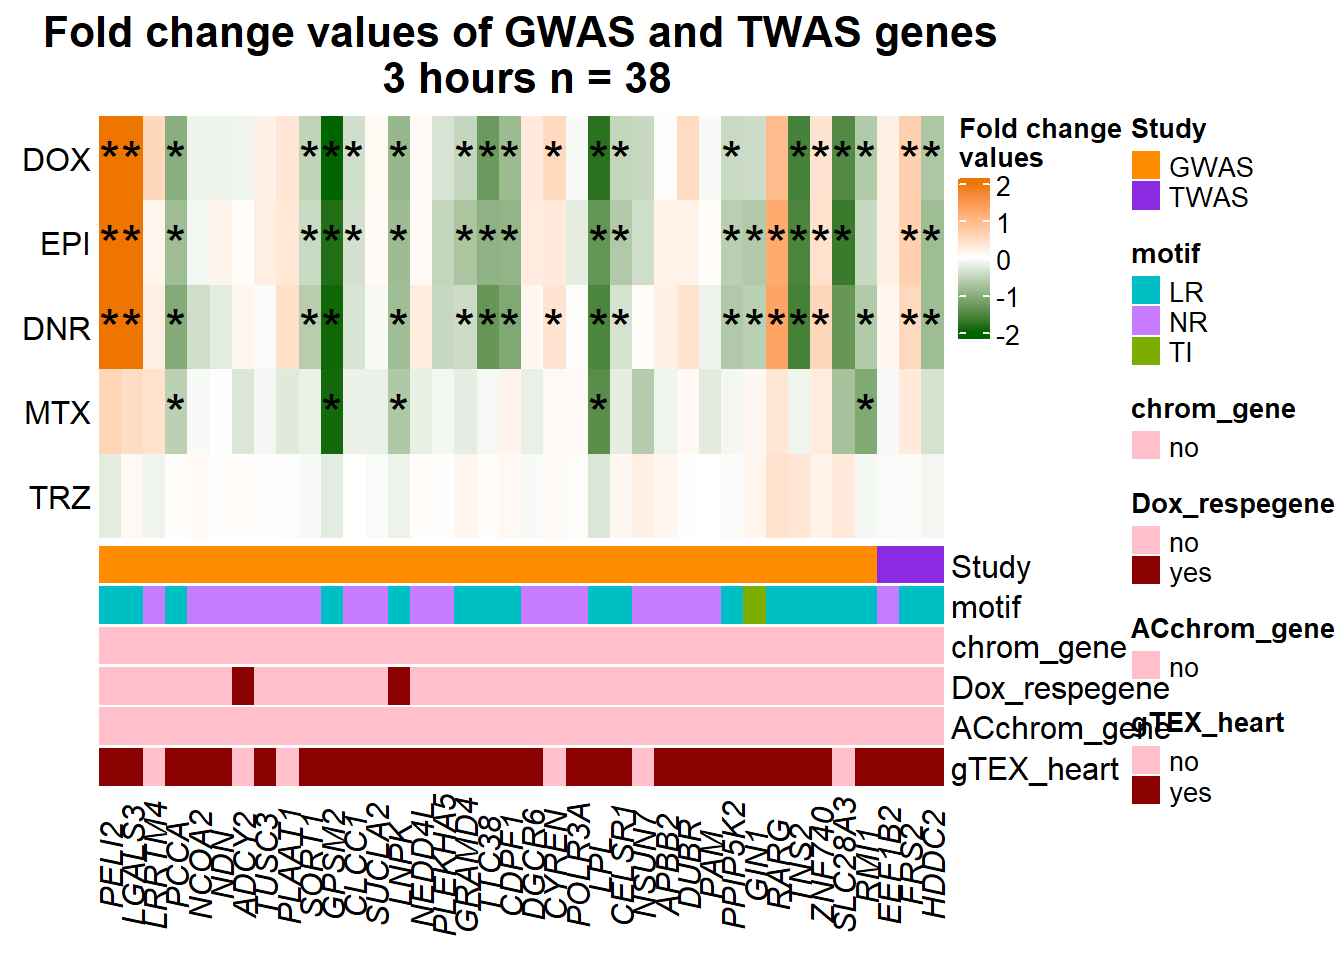
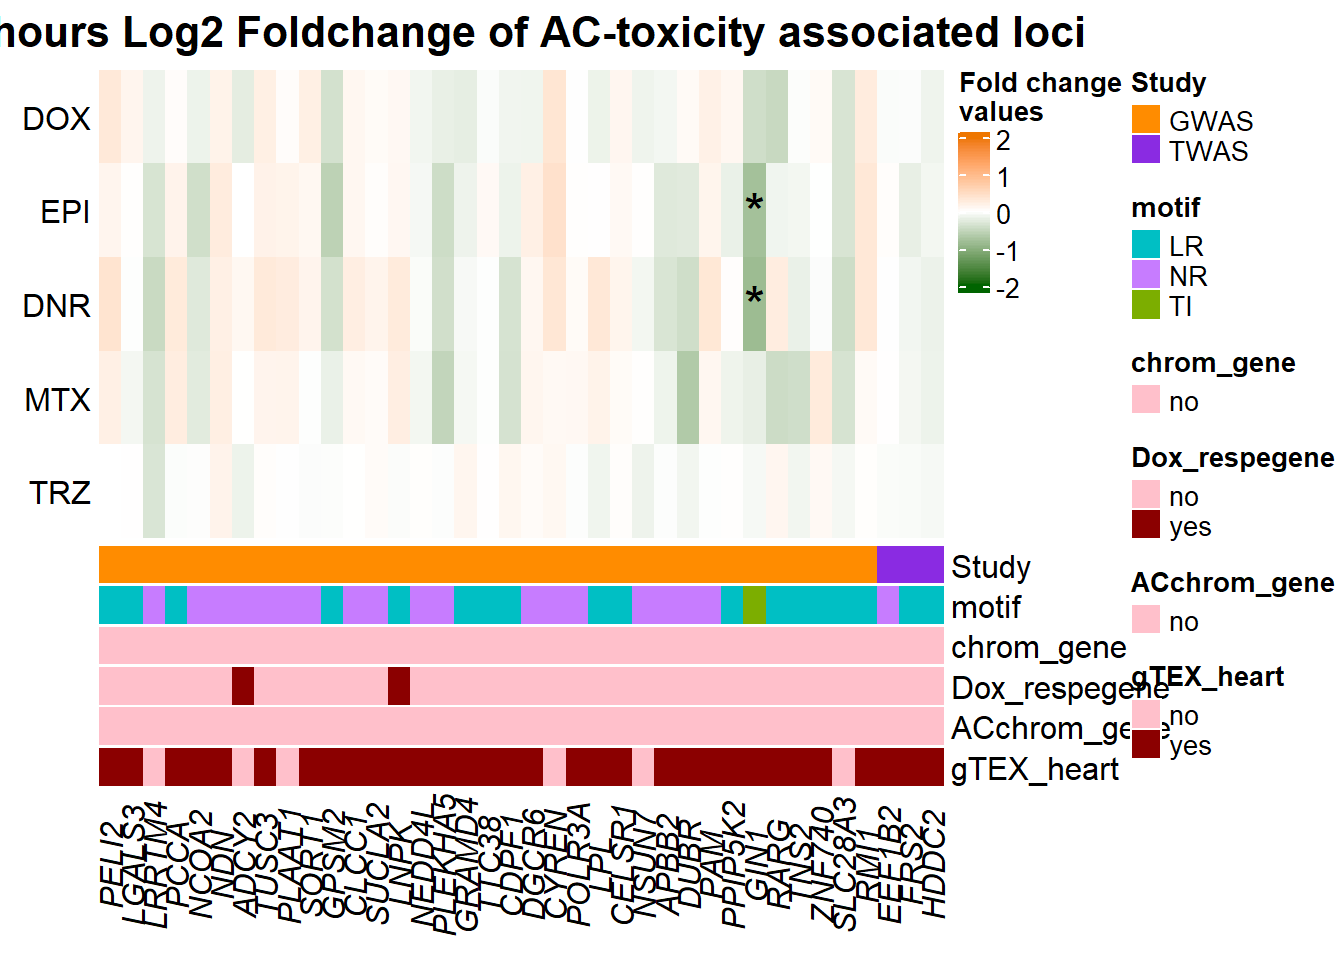
Build site.

Changed region(s): [[0.0, 0.0, 1.0, 0.8438]]

diff --git a/docs/Figure7.html b/docs/Figure7.html
@@ -522,15 +522,15 @@ project makes it easier to run your code on other machines.</p>
 <div class="panel panel-default">
 <div class="panel-heading">
 <p class="panel-title">
-<a data-toggle="collapse" data-parent="#workflowr-checks" href="#strongRepositoryversionstrongahrefhttpsgithubcommwardlabMatthewsTOP2icardiotox2023treed3bb5e9da66699fae2867fe44e4a731e4240b31etargetblankd3bb5e9a">
+<a data-toggle="collapse" data-parent="#workflowr-checks" href="#strongRepositoryversionstrongahrefhttpsgithubcommwardlabMatthewsTOP2icardiotox2023tree5a1f2a65b68054797aacaea50ca1465bad3ce36ftargetblank5a1f2a6a">
 <span class="glyphicon glyphicon-ok text-success"
 aria-hidden="true"></span> <strong>Repository version:</strong>
-<a href="https://github.com/mward-lab/Matthews_TOP2i_cardiotox_2023/tree/d3bb5e9da66699fae2867fe44e4a731e4240b31e" target="_blank">d3bb5e9</a>
+<a href="https://github.com/mward-lab/Matthews_TOP2i_cardiotox_2023/tree/5a1f2a65b68054797aacaea50ca1465bad3ce36f" target="_blank">5a1f2a6</a>
 </a>
 </p>
 </div>
 <div
[2 lines of base64/hex data omitted]
 class="panel-collapse collapse">
 <div class="panel-body">
 <p>
@@ -540,7 +540,7 @@ reproducibility.
 </p>
 <p>
 The results in this page were generated with repository version
-<a href="https://github.com/mward-lab/Matthews_TOP2i_cardiotox_2023/tree/d3bb5e9da66699fae2867fe44e4a731e4240b31e" target="_blank">d3bb5e9</a>.
+<a href="https://github.com/mward-lab/Matthews_TOP2i_cardiotox_2023/tree/5a1f2a65b68054797aacaea50ca1465bad3ce36f" target="_blank">5a1f2a6</a>.
 See the <em>Past versions</em> tab to see a history of the changes made
 to the R Markdown and HTML files.
 </p>
@@ -947,6 +947,40 @@ Message
 Rmd
 </td>
 <td>
+<a href="https://github.com/mward-lab/Matthews_TOP2i_cardiotox_2023/blob/5a1f2a65b68054797aacaea50ca1465bad3ce36f/analysis/Figure7.Rmd" target="_blank">5a1f2a6</a>
+</td>
+<td>
+reneeisnowhere
+</td>
+<td>
+2024-02-06
+</td>
+<td>
+updates to final figure
+</td>
+</tr>
+<tr>
+<td>
+html
+</td>
+<td>
+<a href="https://rawcdn.githack.com/mward-lab/Matthews_TOP2i_cardiotox_2023/7308a2e83675be93f8aacb5f4bfc466baaee2b6c/docs/Figure7.html" target="_blank">7308a2e</a>
+</td>
+<td>
+reneeisnowhere
+</td>
+<td>
+2024-02-06
+</td>
+<td>
+Build site.
+</td>
+</tr>
+<tr>
+<td>
+Rmd
+</td>
+<td>
 <a href="https://github.com/mward-lab/Matthews_TOP2i_cardiotox_2023/blob/d3bb5e9da66699fae2867fe44e4a731e4240b31e/analysis/Figure7.Rmd" target="_blank">d3bb5e9</a>
 </td>
 <td>
@@ -1253,9 +1287,8 @@ gtex_counts_matrix&lt;- counts_v8_heart_left_ventricle_gct %&gt;%
   
 # cpm &lt;- cpm(gtex_counts_matrix)
 lcpm &lt;- cpm(gtex_counts_matrix, log=TRUE)  ### for determining the basic cutoffs
-dim(lcpm)</code></pre>
-<pre><code>[1] 56200   432</code></pre>
-<pre class="r"><code>row_means &lt;- rowMeans(lcpm)
+
+row_means &lt;- rowMeans(lcpm)
 gtex_x &lt;- lcpm[row_means &gt; 0,]
 GTEX_heartLV_log2cpm &lt;- gtex_x %&gt;% 
   as.data.frame() %&gt;%
@@ -1287,6 +1320,8 @@ id="figure-7-genes-in-ac-toxicity-associated-loci-respond-to-top2i."
 class="section level2">
 <h2>Figure 7: Genes in AC toxicity-associated loci respond to
 TOP2i.</h2>
+<div id="hours" class="section level3">
+<h3>24 hours</h3>
 <pre class="r"><code>orderit &lt;- data.frame(SYMBOL=c(SGWAS_order_frame$SYMBOL,&#39;RARG&#39;,
                         &#39;TNS2&#39;, 
                         &#39;ZNF740&#39;,
@@ -1547,7 +1582,7 @@ Heatmap(GWASabsFC, name = &quot;Fold change\nvalues&quot;,
         row_names_side = &quot;left&quot;,
         col = col_funFC,
         row_order = c(&#39;DOX&#39;,&#39;EPI&#39;,&#39;DNR&#39;, &#39;MTX&#39;,&#39;TRZ&#39;),
-        column_title = &quot;Fold change values of GWAS and TWAS genes n = 38&quot;, 
+        column_title = &quot;24 hours Fold Change of AC-toxicity associated loci&quot;, 
         column_title_side = &quot;top&quot;,
         column_title_gp = gpar(fontsize = 16, fontface = &quot;bold&quot;),
         column_order= orderit$SYMBOL,
@@ -1561,6 +1596,43 @@ Heatmap(GWASabsFC, name = &quot;Fold change\nvalues&quot;,
             grid.text(&quot;*&quot;, x, y, gp = gpar(fontsize = 20))
 })</code></pre>
 <p><img src="figure/Figure7.Rmd/Finfig_hm%2024%20hours-1.png" width="672" style="display: block; margin: auto;" /></p>
+<p>
+<button type="button" class="btn btn-default btn-xs btn-workflowr btn-workflowr-fig" data-toggle="collapse" data-target="#fig-no-spaces-Finfig_hm-24-hours-1">
+Past versions of "Finfig_hm 24 hours-1.png"
+</button>
+</p>
+<div id="fig-no-spaces-Finfig_hm-24-hours-1" class="collapse">
+<div class="table-responsive">
+<table class="table table-condensed table-hover">
+<thead>
+<tr>
+<th>
+Version
+</th>
+<th>
+Author
+</th>
+<th>
+Date
+</th>
+</tr>
+</thead>
+<tbody>
+<tr>
+<td>
+<a href="https://github.com/mward-lab/Matthews_TOP2i_cardiotox_2023/blob/7308a2e83675be93f8aacb5f4bfc466baaee2b6c/docs/figure/Figure7.Rmd/Finfig_hm 24 hours-1.png" target="_blank">7308a2e</a>
+</td>
+<td>
+reneeisnowhere
+</td>
+<td>
+2024-02-06
+</td>
+</tr>
+</tbody>
+</table>
+</div>
+</div>
 <pre class="r"><code>GWASabsFCsig_3 &lt;- 
   toplistall %&gt;% 
     mutate(drug=factor(id, levels = c(&#39;DOX&#39;,&#39;EPI&#39;,&#39;DNR&#39;,&#39;MTX&#39;,&#39;TRZ&#39;,&#39;VEH&#39;))) %&gt;% 
@@ -1571,7 +1643,7 @@ Heatmap(GWASabsFC, name = &quot;Fold change\nvalues&quot;,
               names_from = SYMBOL, 
               values_from =adj.P.Val)
   
-gwas_sig_mat_3 &lt;- GWASabsFCsig %&gt;% 
+gwas_sig_mat_3 &lt;- GWASabsFCsig_3 %&gt;% 
    column_to_rownames(var=&quot;id&quot;) %&gt;%
   dplyr::select(orderit$SYMBOL) %&gt;%
   as.matrix()
@@ -1580,7 +1652,7 @@ gwas_sig_mat_3 &lt;- GWASabsFCsig %&gt;%
 GWASabsFC_3 &lt;- toplistall %&gt;% 
   
   # filter(id !=&quot;TRZ&quot;) %&gt;% 
-  filter(time==&quot;24_hours&quot;) %&gt;% 
+  filter(time==&quot;3_hours&quot;) %&gt;% 
   mutate(logFC= logFC*(-1)) %&gt;%
   filter(ENTREZID %in% orderit$ENTREZID) %&gt;% 
   dplyr::select(SYMBOL ,time, id, logFC) %&gt;% 
@@ -1607,7 +1679,7 @@ Heatmap(GWASabsFC_3, name = &quot;Fold change\nvalues&quot;,
         row_names_side = &quot;left&quot;,
         col = col_funFC,
         row_order = c(&#39;DOX&#39;,&#39;EPI&#39;,&#39;DNR&#39;, &#39;MTX&#39;,&#39;TRZ&#39;),
-        column_title = &quot;Fold change values of GWAS and TWAS genes\n 3 hours n = 38&quot;, 
+        column_title = &quot;3 hours Log2 Foldchange of AC-toxicity associated loci&quot;, 
         column_title_side = &quot;top&quot;,
         column_title_gp = gpar(fontsize = 16, fontface = &quot;bold&quot;),
         column_order= orderit$SYMBOL,
@@ -1621,6 +1693,43 @@ Heatmap(GWASabsFC_3, name = &quot;Fold change\nvalues&quot;,
             grid.text(&quot;*&quot;, x, y, gp = gpar(fontsize = 20))
 })</code></pre>
 <p><img src="figure/Figure7.Rmd/Finfig_hm%203%20hours-1.png" width="672" style="display: block; margin: auto;" /></p>
+<p>
+<button type="button" class="btn btn-default btn-xs btn-workflowr btn-workflowr-fig" data-toggle="collapse" data-target="#fig-no-spaces-Finfig_hm-3-hours-1">
+Past versions of "Finfig_hm 3 hours-1.png"
+</button>
+</p>
+<div id="fig-no-spaces-Finfig_hm-3-hours-1" class="collapse">
+<div class="table-responsive">
+<table class="table table-condensed table-hover">
+<thead>
+<tr>
+<th>
+Version
+</th>
+<th>
+Author
+</th>
+<th>
+Date
+</th>
+</tr>
+</thead>
+<tbody>
+<tr>
+<td>
+<a href="https://github.com/mward-lab/Matthews_TOP2i_cardiotox_2023/blob/7308a2e83675be93f8aacb5f4bfc466baaee2b6c/docs/figure/Figure7.Rmd/Finfig_hm 3 hours-1.png" target="_blank">7308a2e</a>
+</td>
+<td>
+reneeisnowhere
+</td>
+<td>
+2024-02-06
+</td>
+</tr>
+</tbody>
+</table>
+</div>
+</div>
 <p>More analysis GWAS and TWAS SNPs found in the Schneider data <a
 href="https://mward-lab.github.io/Matthews_TOP2i_cardiotox_2023/after_comments.html#Top_50_SNP_and_eGenes_from_Schneider_GWAS">at
 this link</a>.</p>
@@ -1693,6 +1802,7 @@ loaded via a namespace (and not attached):
 [79] Rcpp_1.0.11         svglite_2.1.2       whisker_0.4.1      
 [82] xfun_0.41           fs_1.6.3            getPass_0.2-2      
 [85] pkgconfig_2.0.3     GlobalOptions_0.1.2</code></pre>
+</div>
 </div>
 </div>
 
